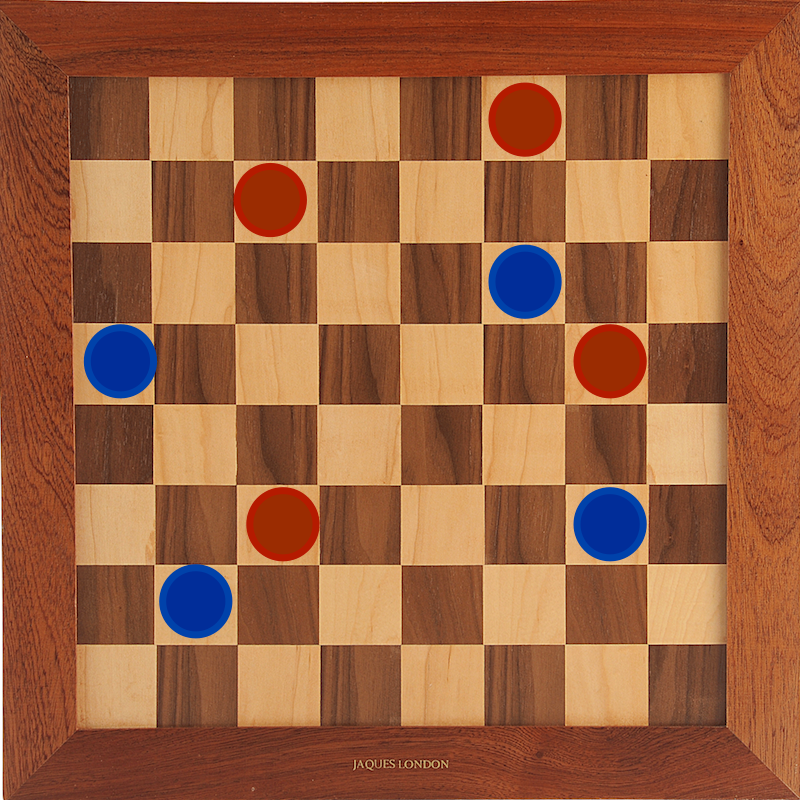
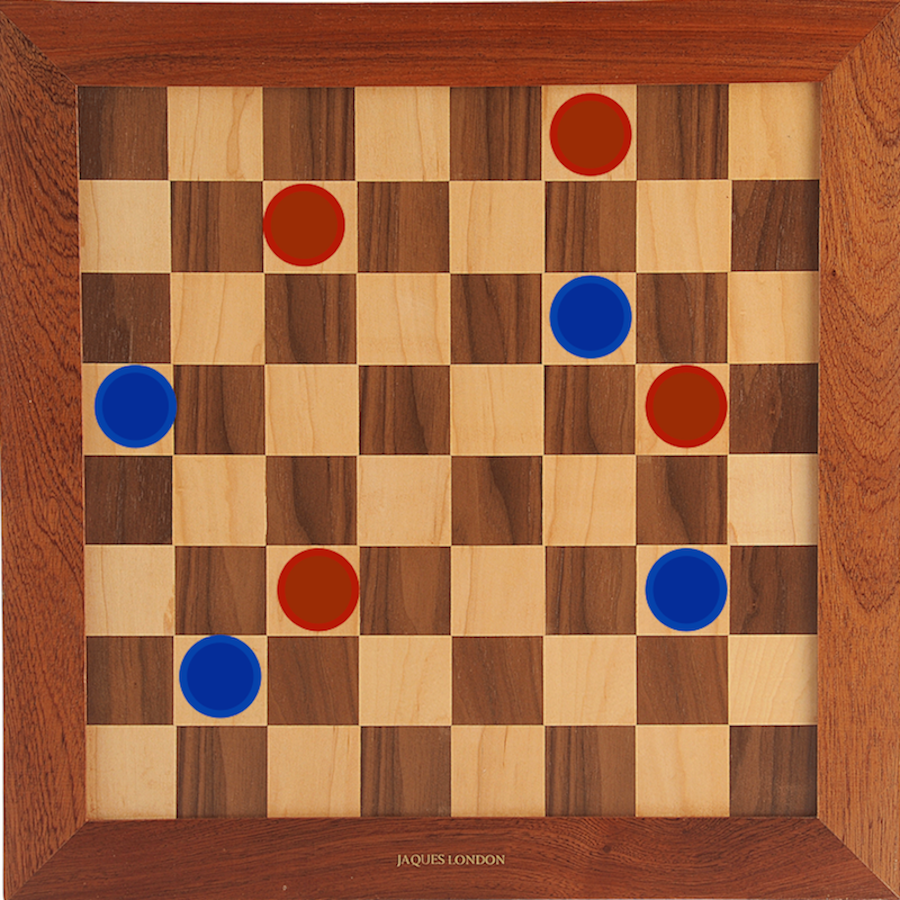
Static images.

Changed region(s): [[0.4375, 0.9375, 0.4688, 0.9688]]

diff --git a/Checkers/CaptureGameViewController.m b/Checkers/CaptureGameViewController.m
@@ -210,7 +210,6 @@ static NSArray *staticPictures;
 - (void)generateCheckerObjects {
     self.arrayOfCheckerObjects = nil;
     self.arrayOfCheckerObjects = [[NSMutableArray alloc] init];
-//    self.capturedImage =  [UIImage imageNamed:@"CheckerBoard_light"];;
     int index = 0;
     CGFloat widthOfImage = self.capturedImage.size.width / 8.0f;
     CGFloat heightOfImage = self.capturedImage.size.height / 8.0f;
@@ -259,9 +258,9 @@ static NSArray *staticPictures;
 - (void) tableViewDidSelectPictureAtIndex: (int)index{
     UIImage *image = [UIImage imageNamed:[staticPictures objectAtIndex:index]];
     
-    CGFloat newHeight = self.containerView.frame.size.height * (image.size.width / self.containerView.frame.size.width);
-    CGFloat heightDifference = (image.size.height - newHeight) / 2.0f;
-    CGRect croppingRect = CGRectMake(0, heightDifference, image.size.width, newHeight);
+    NSLog(@"%f, %f", image.size.width, image.size.height);
+    CGFloat heightDifference = (image.size.height - self.checkerboardImageView.frame.size.height) / 2.0f;
+    CGRect croppingRect = CGRectMake(heightDifference, heightDifference, self.checkerboardImageView.frame.size.width, self.checkerboardImageView.frame.size.height);
     
     // Get a cropped image with the aspect ration same as the containerViewController
     UIImage *croppedImage = [image cropImageInFrame:croppingRect];
